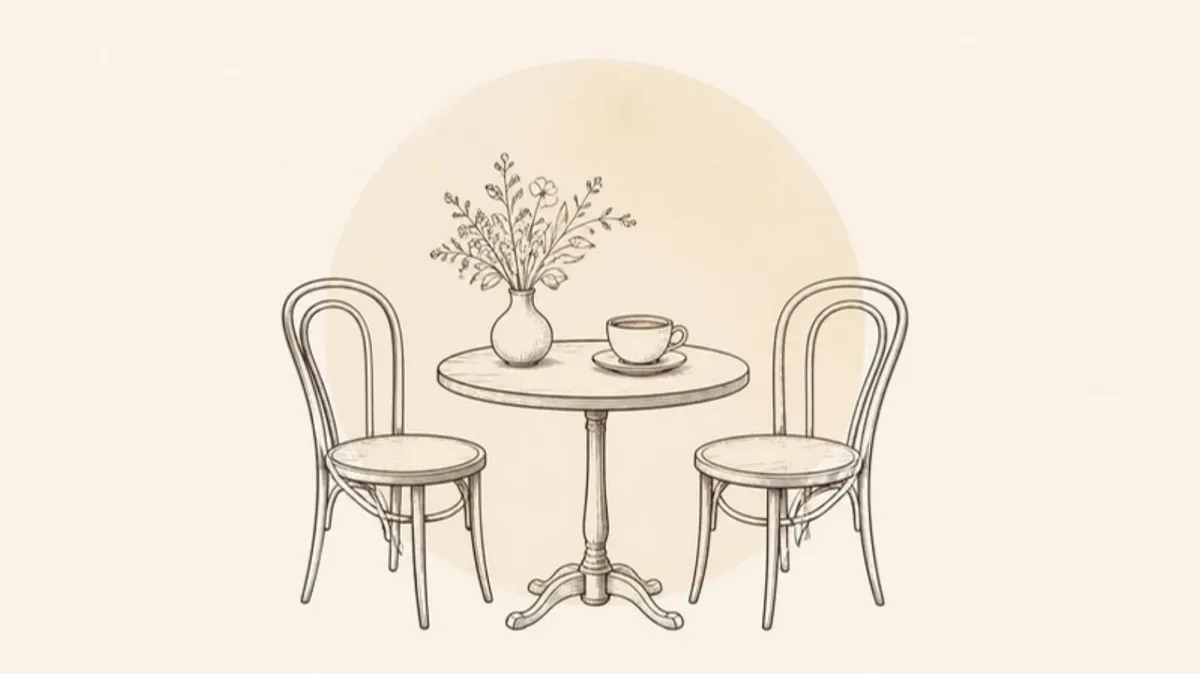
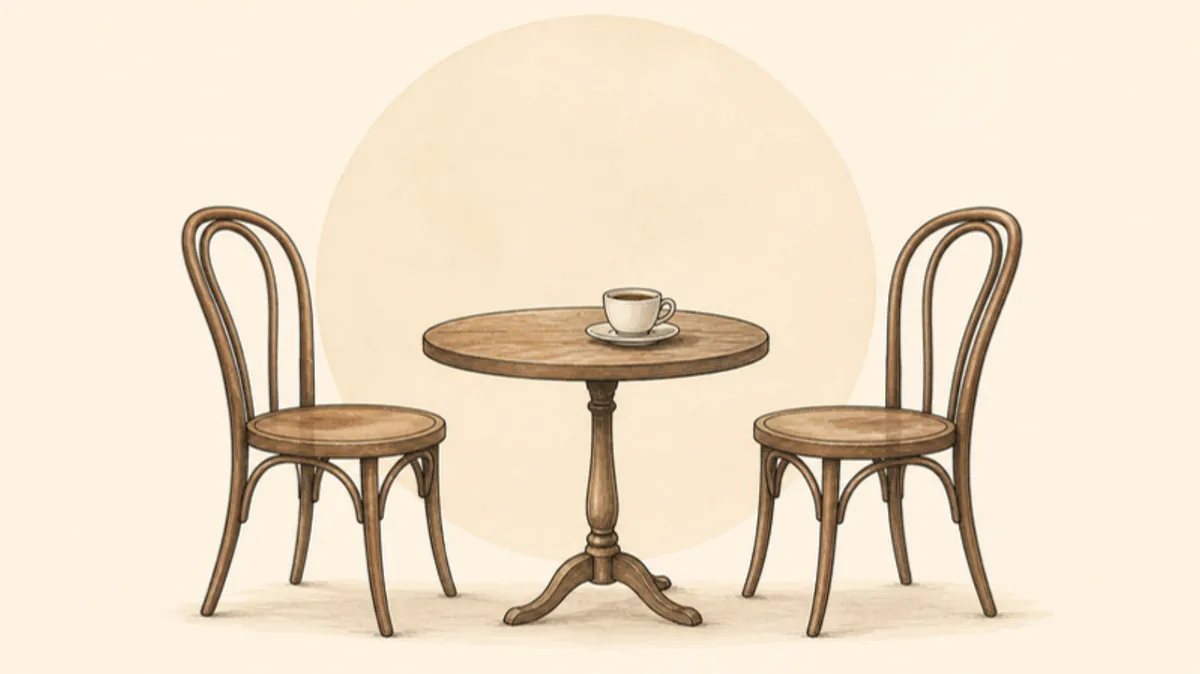
挿絵4枚を描き直し（机の植物・黒電話・床のカップなど不自然な部分を修正）

Changed region(s): [[0.1233, 0.0, 0.8633, 0.9659], [0.6783, 0.1869, 0.7092, 0.2804], [0.4933, 0.2493, 0.5242, 0.2804]]

diff --git a/content/posts/cafe-register-aruaru.md b/content/posts/cafe-register-aruaru.md
@@ -70,7 +70,7 @@ products:
 
 カフェのレジに立っていると、ときどき「なぜ今なの？」と言いたくなる場面に出会います。しかも、それはたいてい一番忙しい時間にやってきます。
 
-![カフェのレジ周りのイラスト。タブレットのPOSレジ、レシートプリンター、予備のロール紙、コーヒーカップ](/images/posts/cafe-register-aruaru-1.webp)
+![カフェのレジ周りのイラスト。タブレットのPOSレジ、用紙が残りわずかのレシートプリンター、予備のロール紙、コーヒーカップと、列の目印のポール](/images/posts/cafe-register-aruaru-1.webp)
 
 この記事では、カフェのレジまわりでよくある困りごとを6つ集めました。笑いながら読んでいただきつつ、最後には「明日からこうしよう」と思える対策をそえています。
 

diff --git a/content/posts/cafe-mobile-order.md b/content/posts/cafe-mobile-order.md
@@ -48,7 +48,7 @@ products:
 
 飲食店で注文の手間を減らしたいなら、**オーダーシステム（OES）**や**モバイルオーダー**をPOSレジと連携させるのが効果的です。この記事では、それぞれの違いと、POSレジとつなぐメリットを解説します。少ない人数でお店を回していると、注文を取りに行く時間も惜しいですよね。
 
-![カフェのテーブルに置いたスマートフォンのメニュー画面、QRコードのスタンド、ラテのイラスト](/images/posts/cafe-mobile-order-1.webp)
+![カフェのテーブルに置いた、メニューを表示したスマートフォンと、QRコードのスタンド、ラテのイラスト](/images/posts/cafe-mobile-order-1.webp)
 
 ## オーダーシステム（OES）とモバイルオーダーの違い
 

diff --git a/content/posts/cafe-table-set.md b/content/posts/cafe-table-set.md
@@ -172,7 +172,7 @@ picks:
 
 個人カフェの開業準備で、意外と悩むのが**テーブルとチェア選び**です。おしゃれさだけで選ぶと、「毎日の拭き掃除で天板がすぐ傷んだ」「席の組み方を変えられない」といった失敗につながります。
 
-![小さな丸テーブルと2脚の曲木チェア、花びんとコーヒーカップのイラスト](/images/posts/cafe-table-set-1.webp)
+![小さな丸テーブルと2脚の曲木チェア、テーブルの上のコーヒーカップのイラスト](/images/posts/cafe-table-set-1.webp)
 
 この記事では、個人カフェが家具を選ぶときの3つの条件を整理したうえで、Amazonで揃えられるおしゃれなテーブル＆チェアを10タイプ紹介します。
 

diff --git a/content/posts/salon-reception-aruaru.md b/content/posts/salon-reception-aruaru.md
@@ -70,7 +70,7 @@ products:
 
 小さな美容室では、スタイリストが受付と会計も担当することがよくあります。すると、施術と受付の「タイミングのすれ違い」が、毎日のように起こります。
 
-![泡があふれたシャンプー台と、奥の受付で鳴っている電話のイラスト](/images/posts/salon-reception-aruaru-1.webp)
+![泡の残るシャンプー台とシャンプーチェア、奥の受付で鳴っているコードレス電話のイラスト](/images/posts/salon-reception-aruaru-1.webp)
 
 この記事では、美容室の受付と会計でよくある場面を6つ集めました。笑って読んでいただきつつ、明日から使える仕組みと道具をそえています。
 
